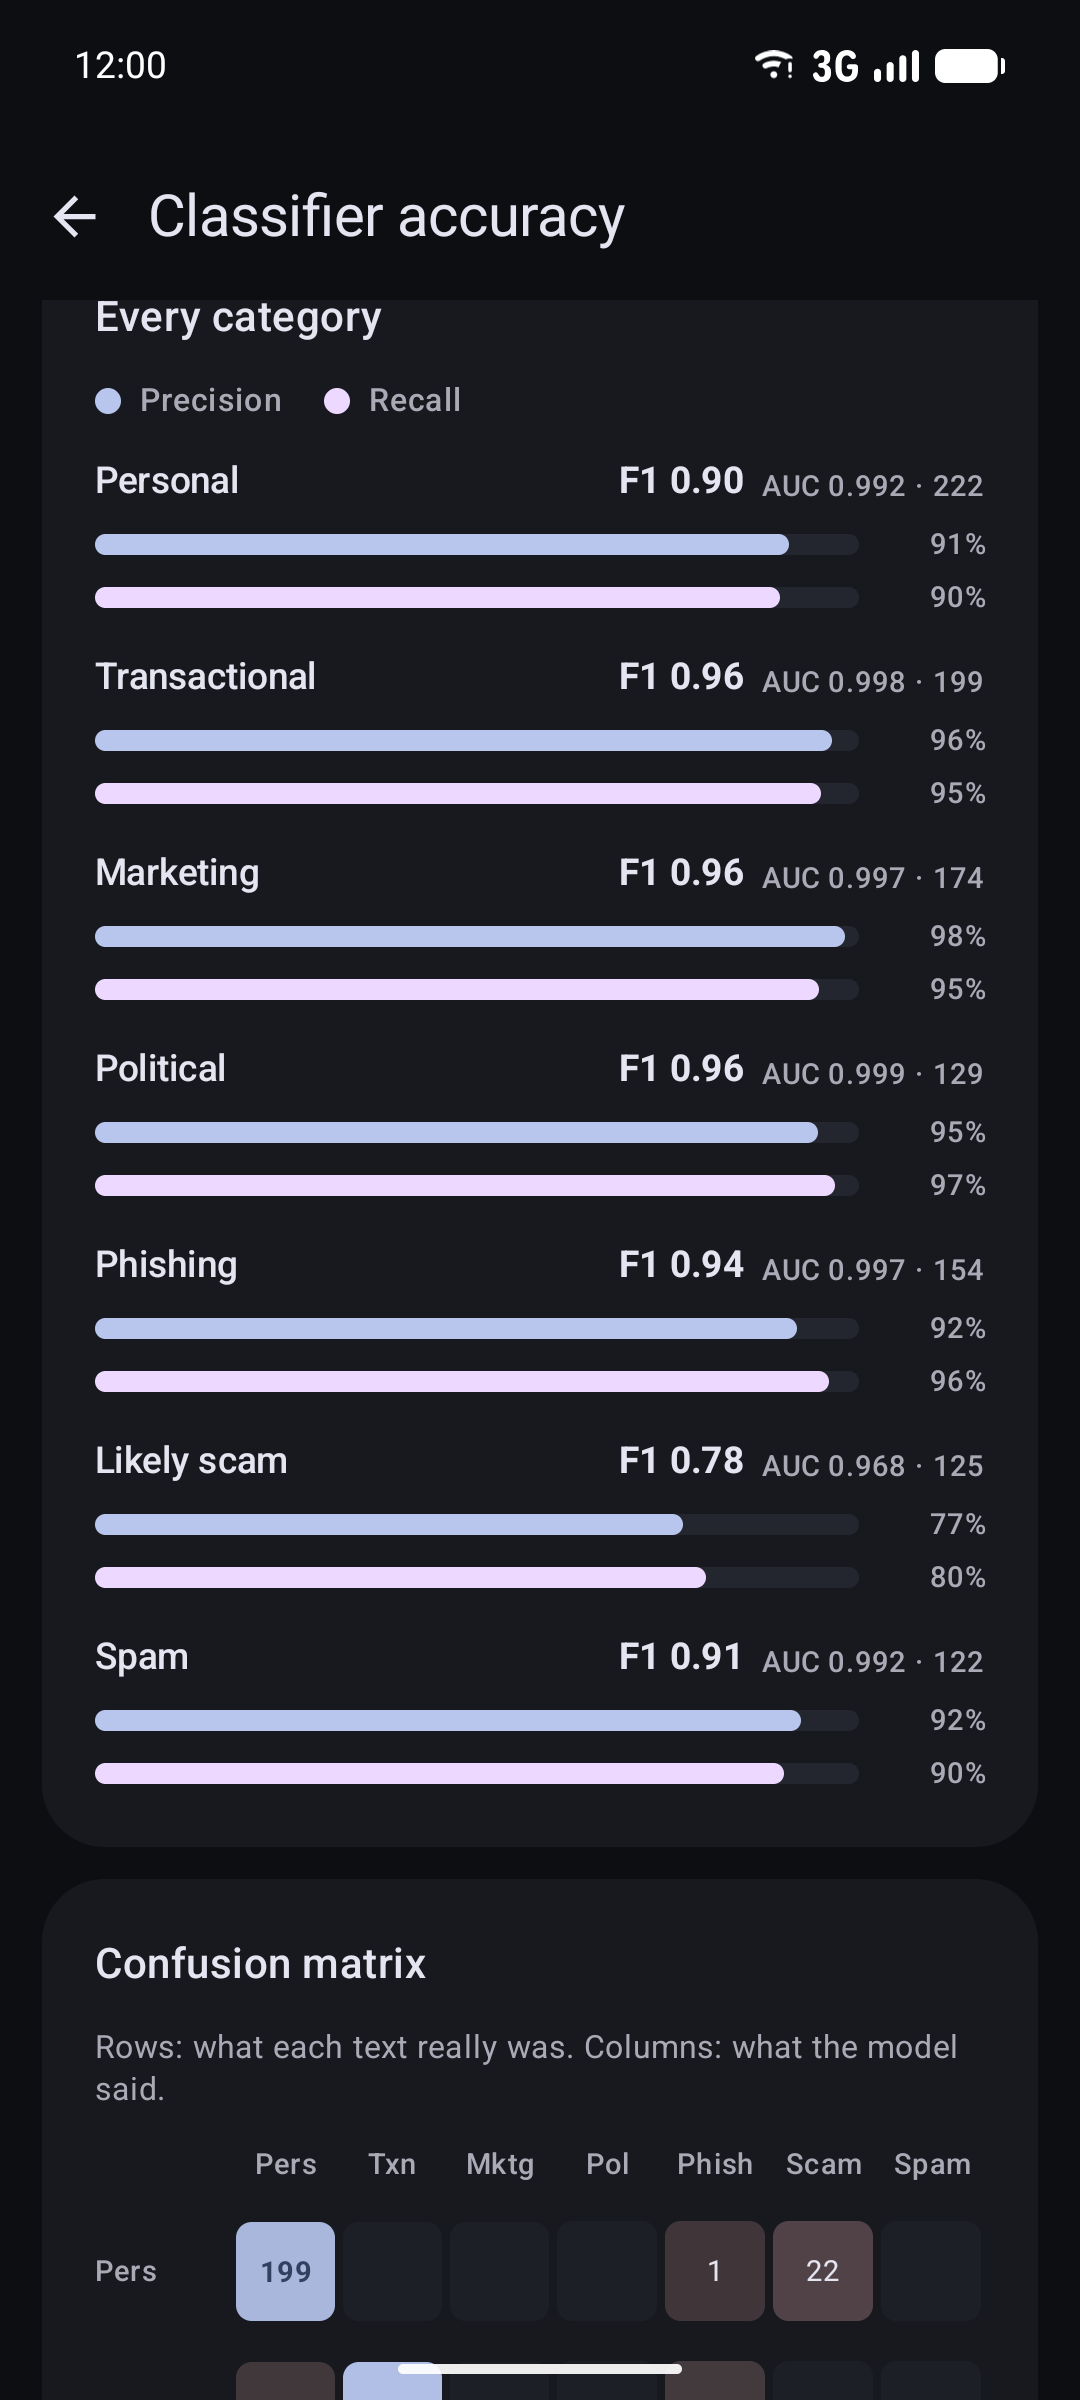
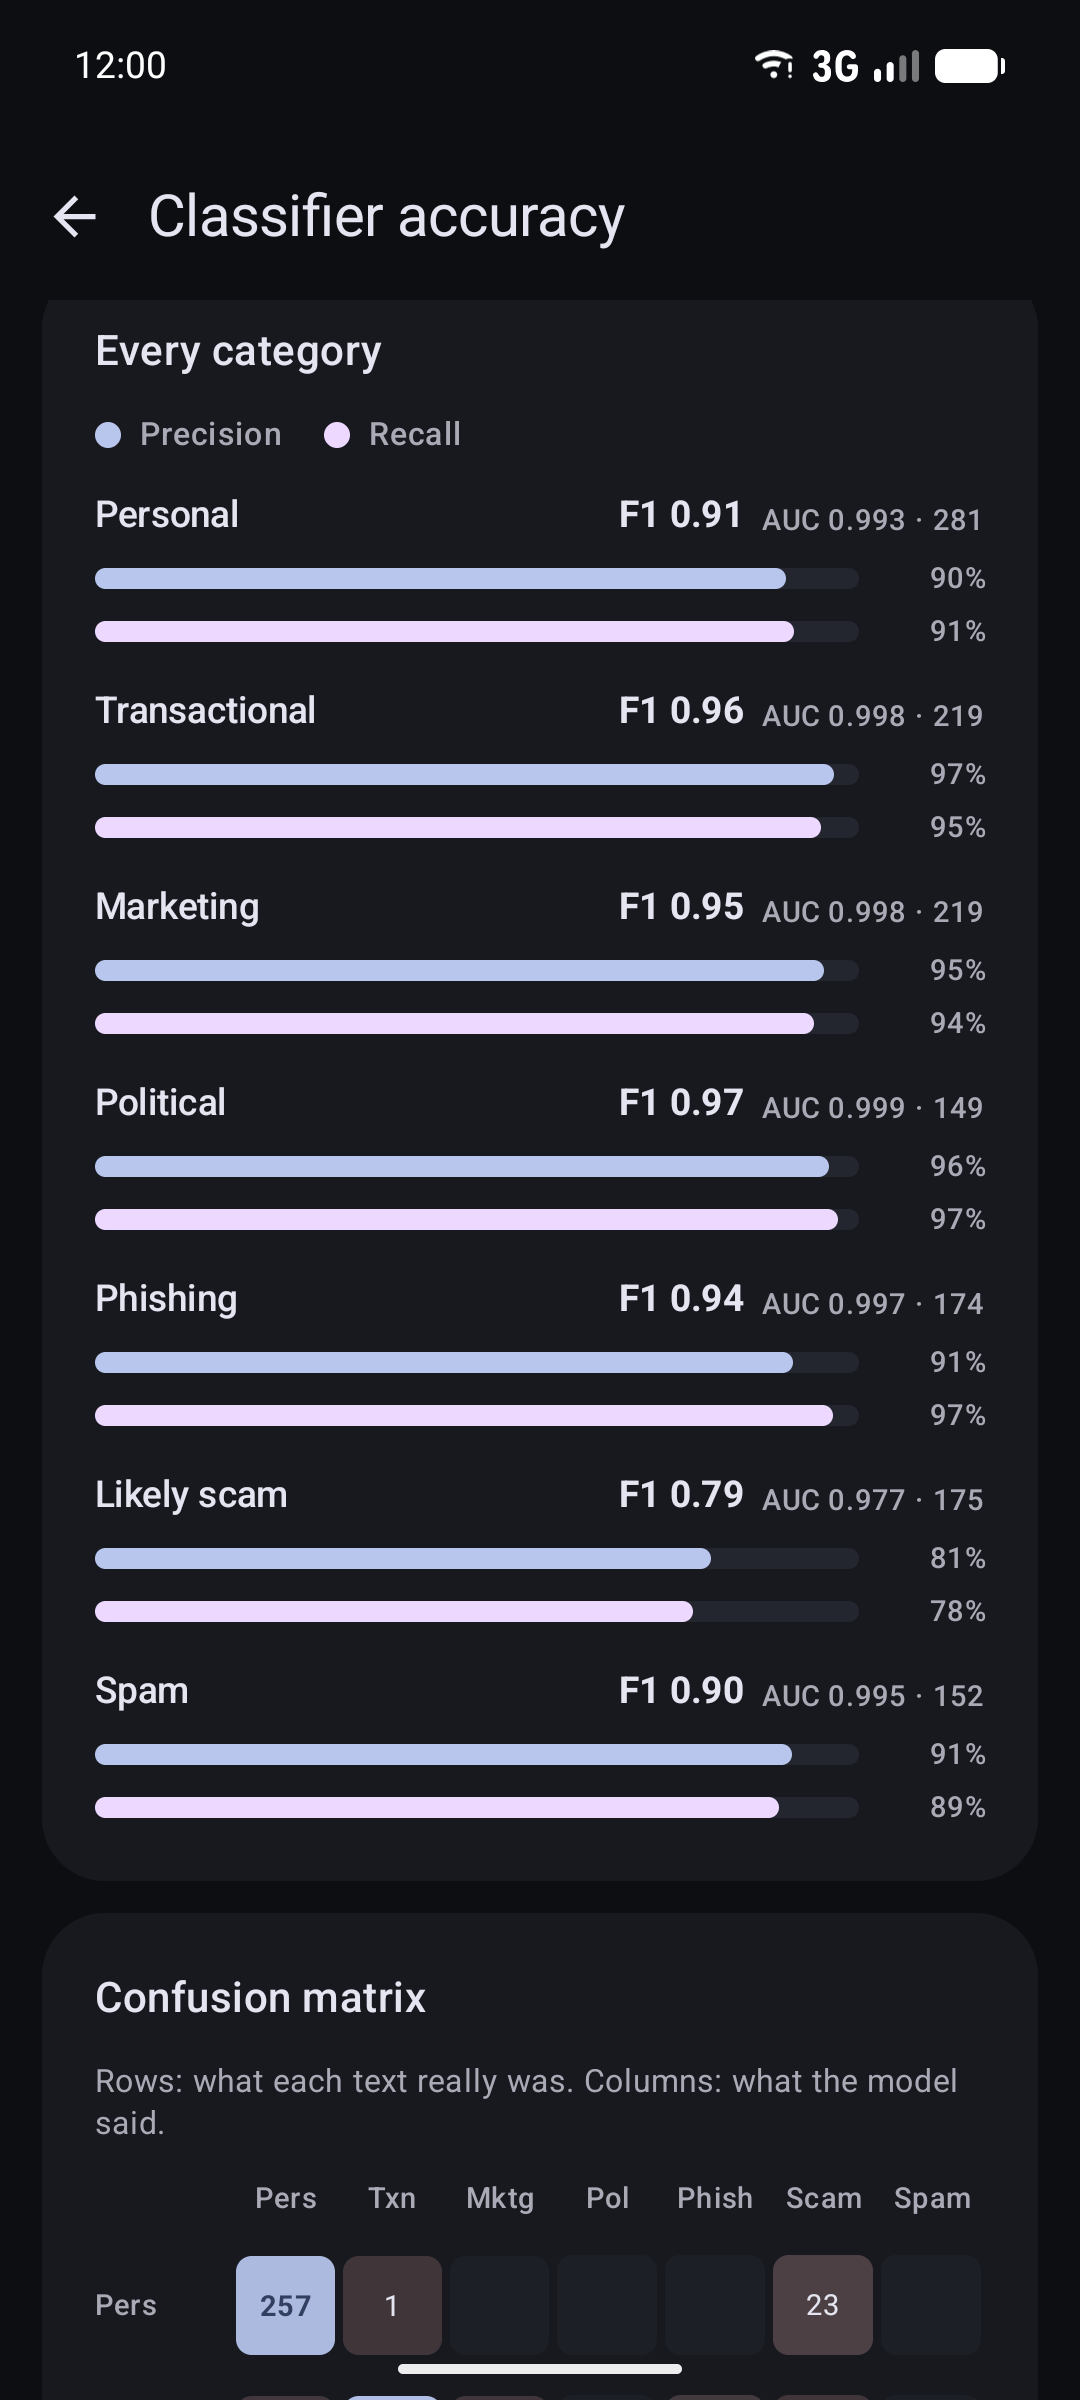
Refresh accuracy and Activity screenshots; README corpus count

diff --git a/README.md b/README.md
@@ -157,7 +157,7 @@ up as another ("sunpass.com-tollpay.vip"), a stranger introducing themselves "wi
 a donation "match", a deadline, a "reply STOP" opt-out, and letters from another alphabet
 posing as English. The weights are 230 KB. It classifies a text in about 50 µs on a laptop
 JVM (not yet measured on a phone), and it says why it decided ("Decided on this phone:
-“confirm”, “package”, “fee”"). It's trained from 1,349 labeled texts in
+“confirm”, “package”, “fee”"). It's trained from 1,369 labeled texts in
 `classifier/training/`, balanced across all seven categories.
 `./gradlew :classifier:trainLocalModel` rebuilds it, and a test fails if the shipped model or
 its metrics don't match the corpus.
